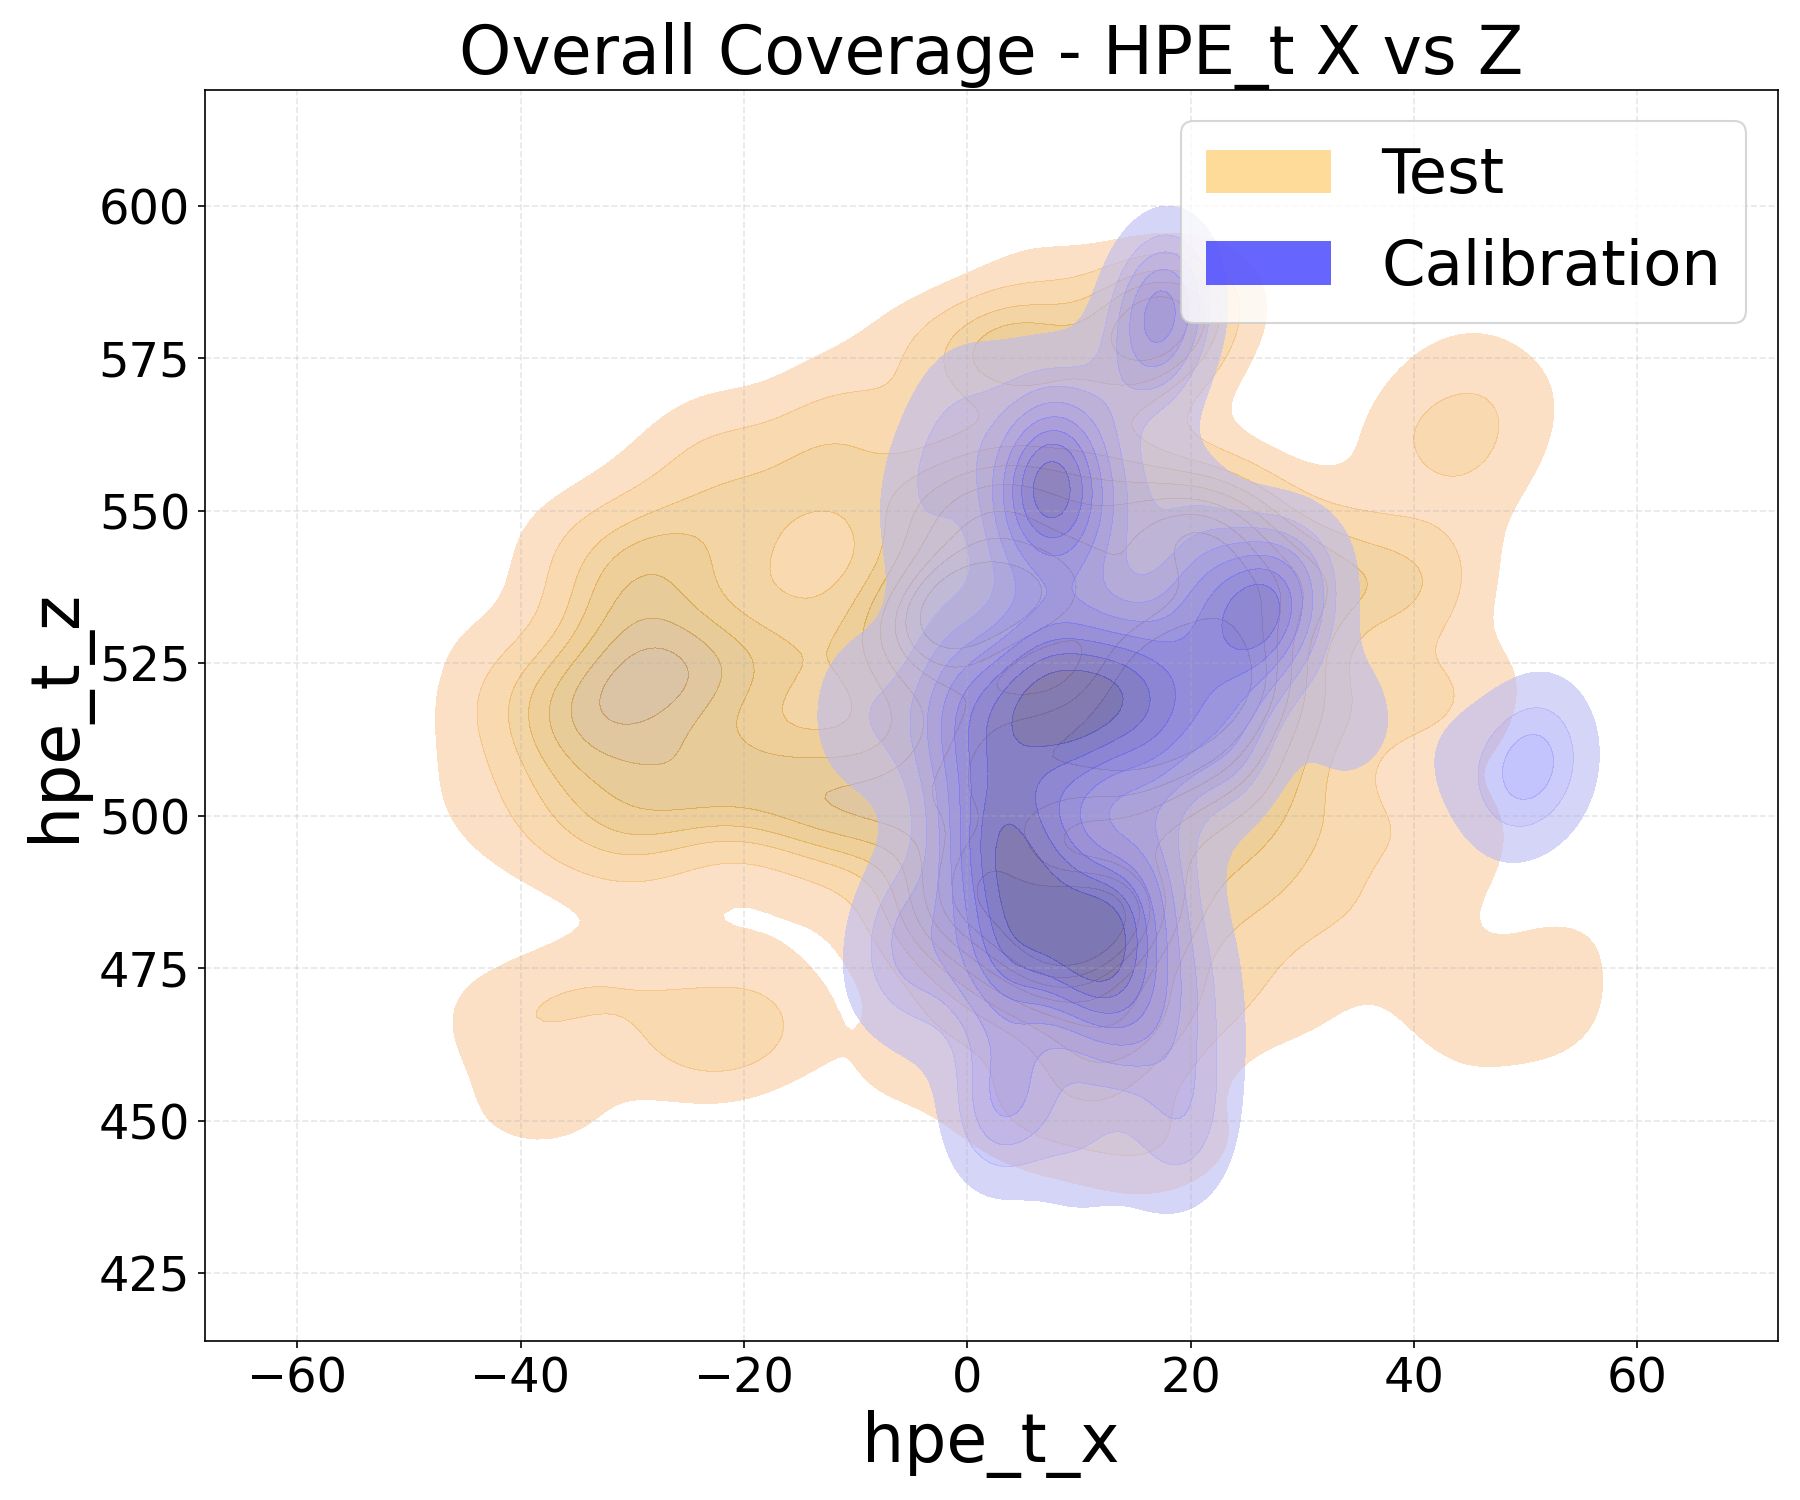
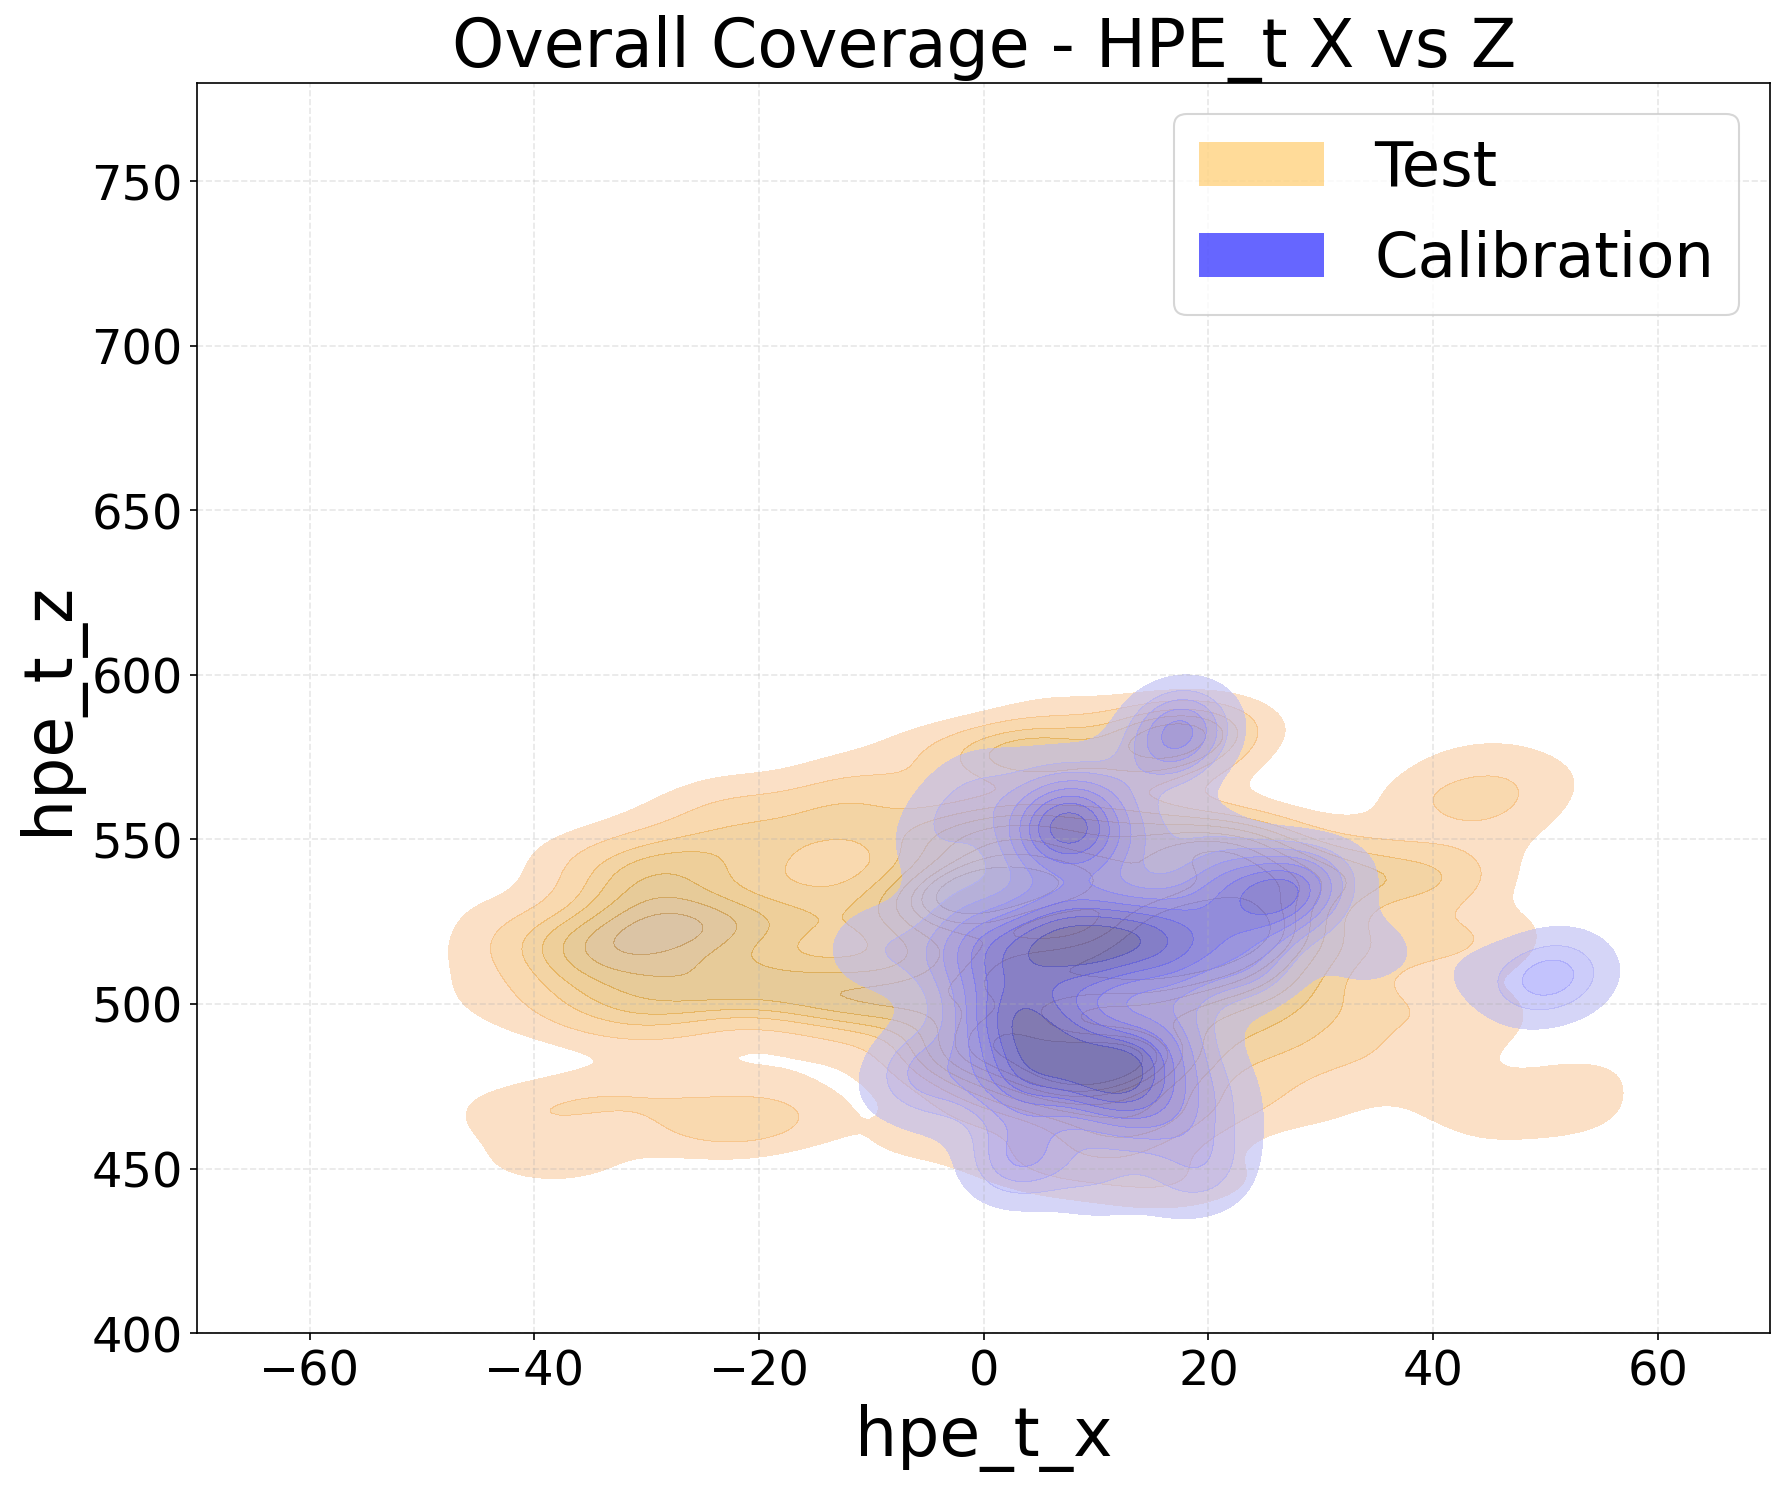
visualizatio bug fix

diff --git a/visualization/explore_dataset.py b/visualization/explore_dataset.py
@@ -285,9 +285,10 @@ def make_point_records(frame, max_points, screen):
         "session_id": "session",
         "task_id": "task",
         "task_type": "task_type",
-        "head_rotation_rad_x": "head_pitch",
+        # rotation_rad holds extrinsic Euler 'zyx' angles [roll, yaw, pitch] (docs/setup.json)
+        "head_rotation_rad_x": "head_roll",
         "head_rotation_rad_y": "head_yaw",
-        "head_rotation_rad_z": "head_roll",
+        "head_rotation_rad_z": "head_pitch",
         "head_translation_mm_x": "head_translation_x",
         "head_translation_mm_y": "head_translation_y",
         "head_translation_mm_z": "head_translation_z",
@@ -721,7 +722,7 @@ function themeLayout(extra = {}) {
 
 function axisStyle(title) {
   const border = getComputedStyle(document.documentElement).getPropertyValue("--border").trim();
-  return { title, gridcolor: border, zerolinecolor: border };
+  return { title: { text: title }, gridcolor: border, zerolinecolor: border };
 }
 
 const plotConfig = { responsive: true, displaylogo: false, modeBarButtonsToRemove: ["lasso2d", "select2d"] };
@@ -768,20 +769,21 @@ function renderSessionChart(groups) {
       type: "scatter",
       mode: "markers",
       name: label,
-      x: rows.map(row => row.session),
+      // tasks of the same session side by side, so that none hides another
+      x: rows.map(row => row.session + (index - (tasks.length - 1) / 2) * 0.2),
       y: rows.map(row => `User ${String(row.user).padStart(2, "0")}`),
-      customdata: rows.map(row => row.count),
+      customdata: rows.map(row => [row.count, row.session]),
       marker: {
         color: taskColors[index % taskColors.length],
-        size: rows.map(row => Math.max(7, Math.min(26, Math.sqrt(row.count) / 1.6))),
+        size: rows.map(row => Math.max(4, Math.min(9, Math.sqrt(row.count) / 2.5))),
         opacity: 0.76
       },
-      hovertemplate: "Session %{x}<br>%{y}<br>%{customdata:,} samples<extra>" + label + "</extra>"
+      hovertemplate: "Session %{customdata[1]}<br>%{y}<br>%{customdata[0]:,} samples<extra>" + label + "</extra>"
     };
   });
   Plotly.react("session-chart", traces, themeLayout({
     xaxis: { ...axisStyle("Session ID"), dtick: 1 },
-    yaxis: { title: "Participant", automargin: true },
+    yaxis: { title: { text: "Participant" }, automargin: true },
     legend: { orientation: "h", y: 1.18 },
     margin: { l: 82, r: 20, t: 64, b: 52 }
   }), plotConfig);
@@ -890,7 +892,7 @@ function renderHeadDistributions(points) {
   }));
   Plotly.react(target, traces, themeLayout({
     boxmode: "group",
-    xaxis: { title: "Task", automargin: true },
+    xaxis: { title: { text: "Task" }, automargin: true },
     yaxis: axisStyle("Head rotation (°)"),
     legend: { orientation: "h", y: 1.08 },
     margin: { l: 62, r: 18, t: 48, b: 78 }
@@ -1053,7 +1055,7 @@ function renderTranslationDistributions(points) {
   }));
   Plotly.react(target, traces, themeLayout({
     boxmode: "group",
-    xaxis: { title: "Task", automargin: true },
+    xaxis: { title: { text: "Task" }, automargin: true },
     yaxis: axisStyle("Head translation (cm)"),
     legend: { orientation: "h", y: 1.08 },
     margin: { l: 68, r: 18, t: 48, b: 78 }

diff --git a/visualization/explore_statistical_analysis.py b/visualization/explore_statistical_analysis.py
@@ -548,11 +548,11 @@ function renderMatrix(rows) {
   Plotly.react("matrix-chart", [{
     type: "heatmap", x: users, y: users, z, customdata: details,
     colorscale: [[0, colors.low], [0.5, colors.mid], [1, colors.high]],
-    colorbar: { title: statisticLabel(statistic), thickness: 14 },
+    colorbar: { title: { text: statisticLabel(statistic) }, thickness: 14 },
     hovertemplate: "User %{y} vs user %{x}<br>%{customdata}<extra></extra>"
   }], layout({
-    xaxis: { title: "Participant", side: "bottom" },
-    yaxis: { title: "Participant", autorange: "reversed", scaleanchor: "x" },
+    xaxis: { title: { text: "Participant" }, side: "bottom", constrain: "domain", zeroline: false, dtick: 1 },
+    yaxis: { title: { text: "Participant" }, autorange: "reversed", scaleanchor: "x", constrain: "domain", zeroline: false, dtick: 1 },
     margin: { l: 72, r: 30, t: 24, b: 62 }
   }), plotConfig);
   const stats = summary(rows, statistic);
@@ -594,7 +594,7 @@ function renderRanking(rows) {
     text: ranking.map(row => formatValue(row.value)), textposition: "auto",
     hovertemplate: "%{y}<br>Mean " + statisticLabel(statistic) + " %{x:.4f}<extra></extra>"
   }], layout({
-    xaxis: { title: `Mean ${statisticLabel(statistic)}`, gridcolor: theme().border },
+    xaxis: { title: { text: `Mean ${statisticLabel(statistic)}` }, gridcolor: theme().border },
     yaxis: { automargin: true }
   }), plotConfig);
 }
@@ -613,8 +613,8 @@ function renderProfiles() {
     customdata: medianRows.map(row => row.n_sessions),
     hovertemplate: "%{x}<br>Median instability %{y:.4f}<br>IQR %{error_y.array:.4f}<br>%{customdata} sessions<extra></extra>"
   }], layout({
-    xaxis: { title: "Participant" },
-    yaxis: { title: "Session distance", gridcolor: theme().border }
+    xaxis: { title: { text: "Participant" } },
+    yaxis: { title: { text: "Session distance" }, gridcolor: theme().border }
   }), plotConfig);
 }
 
@@ -637,8 +637,8 @@ function renderMismatch() {
     };
   });
   Plotly.react("mismatch-chart", traces, layout({
-    xaxis: { title: "Participant" },
-    yaxis: { title: `${label(metricFilter.value)} mismatch`, gridcolor: theme().border },
+    xaxis: { title: { text: "Participant" } },
+    yaxis: { title: { text: `${label(metricFilter.value)} mismatch` }, gridcolor: theme().border },
     showlegend: false,
     margin: { l: 72, r: 20, t: 20, b: 60 }
   }), plotConfig);

diff --git a/visualization/gaze_analyzer.py b/visualization/gaze_analyzer.py
@@ -34,7 +34,9 @@ def load_gaze_analysis_params(params_path: str) -> dict:
 # ------------------ GEOMETRY FUNCTIONS ----------------------
 # ============================================================
 
-def intersect_gaze(gaze, P0=np.array([0.0, 0.0, 40.0])):
+def intersect_gaze(gaze, P0=np.array([0.0, 0.0, 400.0])):
+    # Point where the ray from P0 along gaze meets the camera plane z = 0 (mm). The default P0 is a
+    # fixed eye 400 mm in front of the camera, which removes head position ("normalized" PoG).
     V0 = np.array([0, 0, 0], dtype=float)
     n = np.array([0, 0, 1], dtype=float)
     gaze = np.asarray(gaze, dtype=float).flatten()
@@ -204,6 +206,8 @@ def plot_vs_coverage_smooth(df: pd.DataFrame, x_var: str, y_var: str, x_lim=None
     ax.set_ylabel(y_var, fontsize=32)
     ax.tick_params(axis='both', which='major', labelsize=23)
     ax.grid(True, linestyle='--', alpha=0.3)
+    if x_lim: ax.set_xlim(x_lim[0], x_lim[1])
+    if y_lim: ax.set_ylim(y_lim[0], y_lim[1])
     fig.tight_layout()
 
 def plot_hpe_histograms(df: pd.DataFrame, xlims_by_suffix=None, id_user=None):
@@ -399,7 +403,7 @@ def analyze(args):
             plot_vs_coverage_smooth(df, "hpe_r_x", "hpe_r_y", x_lim=x_axis_hpe_r_lim, y_lim=y_axis_hpe_r_lim, split_plot_type="task_type", title="Overall Coverage - HPE_r X vs Y")
             plot_vs_coverage_smooth(df, "hpe_r_x", "hpe_r_z", x_lim=x_axis_hpe_r_lim, y_lim=z_axis_hpe_r_lim, split_plot_type="task_type", title="Overall Coverage - HPE_r X vs Z")
             plot_vs_coverage_smooth(df, "gaze_vector_x", "gaze_vector_y", x_lim=x_axis_ge_lim, y_lim=y_axis_ge_lim, split_plot_type="task_type", title="Overall Coverage - Gaze Vector X vs Y")
-            plot_vs_coverage_smooth(df, "pog_norm_x", "pog_norm_y", x_lim=x_axis_ge_lim, y_lim=y_axis_ge_lim, split_plot_type="task_type", title="Overall Coverage - POG Normalized X vs Y")
+            plot_vs_coverage_smooth(df, "pog_norm_x", "pog_norm_y", x_lim=x_axis_pog_norm_lim, y_lim=y_axis_pog_norm_lim, split_plot_type="task_type", title="Overall Coverage - POG Normalized X vs Y")
 
     if args.export_dir:
         os.makedirs(args.export_dir, exist_ok=True)

diff --git a/tests/test_explore_dataset.py b/tests/test_explore_dataset.py
@@ -28,13 +28,13 @@ class ExploreDatasetTest(unittest.TestCase):
                 "user_id": [7, 7, 7],
                 "session_id": [1, 1, 1],
                 "task_id": [0, 1, 1],
-                "task_type": ["9-point", "16-point", "16-point"],
-                "head_rot_x": [0.0, math.pi / 6, math.pi / 4],
-                "head_rot_y": [math.pi / 2, 0.0, -math.pi / 6],
-                "head_rot_z": [0.0, -math.pi / 4, math.pi / 6],
-                "head_trans_x": [-20.0, 10.0, 30.0],
-                "head_trans_y": [40.0, 50.0, 60.0],
-                "head_trans_z": [300.0, 320.0, 340.0],
+                "task_type": ["calibration", "test", "test"],
+                "head_rotation_rad_x": [0.0, math.pi / 6, math.pi / 4],
+                "head_rotation_rad_y": [math.pi / 2, 0.0, -math.pi / 6],
+                "head_rotation_rad_z": [0.0, -math.pi / 4, math.pi / 6],
+                "head_translation_mm_x": [-20.0, 10.0, 30.0],
+                "head_translation_mm_y": [40.0, 50.0, 60.0],
+                "head_translation_mm_z": [300.0, 320.0, 340.0],
                 "pog_px_x": [1368, 10, 10],
                 "pog_px_y": [912, 10, 10],
             }
@@ -60,8 +60,9 @@ class ExploreDatasetTest(unittest.TestCase):
         self.assertAlmostEqual(center["target_cm_x"], 13.0)
         self.assertAlmostEqual(center["target_cm_y"], 8.65)
         self.assertEqual(repeated["count"], 2)
-        self.assertAlmostEqual(points[1]["head_pitch"], 30.0)
-        self.assertAlmostEqual(points[1]["head_roll"], -45.0)
+        # rotation_rad = Euler zyx [roll, yaw, pitch]: x is roll, z is pitch
+        self.assertAlmostEqual(points[1]["head_roll"], 30.0)
+        self.assertAlmostEqual(points[1]["head_pitch"], -45.0)
         self.assertAlmostEqual(points[1]["head_translation_x"], 1.0)
         self.assertAlmostEqual(points[1]["head_translation_z"], 32.0)
 

diff --git a/visualization/read_gaze_data.py b/visualization/read_gaze_data.py
@@ -3,7 +3,7 @@ import json
 import math
 import numpy as np
 from scene_operations import Plane, rotateVector, createBothRotMat, transformMhProws, computeCameraMatrix, projectPoints
-from head_model import load_head_model
+from head_model import load_head_model, CANONICAL_EYE_MIDPOINT_MM
 from scene_3d_plots import trackingEnviroment3DPlotter
 from scene_2d_plots import trackingScreen2DPlotter
 from math import pi
@@ -50,6 +50,8 @@ class Read_gaze_data:
             self.posCam_mm = camera["position_mm"]
             self.data["rotCam"] = camera["rotation_rad"]
             self.img_res = setup_data["image_resolution_px"]
+            factors = setup_data.get("user_face_scale", {}).get("factors", {})
+            self.face_scale = float(factors.get(str(self.data.get("user_id", "")), 1.0))
             return
 
         # Legacy setup_config.json - set defaults if not present
@@ -114,6 +116,7 @@ class Read_gaze_data:
         self.pogPrediction_cam = []
         self.eye3DPredictionCenter_cam = []
         self.pogPredictionPx_screen = np.array([])
+        self.face_scale = 1.0
 
     def loadJSONData(self):
         """
@@ -278,7 +281,10 @@ class Read_gaze_data:
 
     def headSetup(self):
         # Head model
+        # The 68-point model has its own origin: move it so that its eyes sit where the labels put
+        # them (canonical-face eye midpoint, scaled like the released translation and gaze origin)
         head3D_head = load_head_model()*10
+        head3D_head = head3D_head - head3D_head[36:48].mean(axis=0) + self.face_scale * CANONICAL_EYE_MIDPOINT_MM
         self.head3D_cam = transformMhProws(self.Mhead_cam, head3D_head)
 
     def addHeadPrediction(self, predictionHead3D_cam, predictionMhead_cam, predictionVRhead_cam, predictionVThead_cam):

diff --git a/visualization/dataset_distribution_figure.py b/visualization/dataset_distribution_figure.py
@@ -108,6 +108,8 @@ def main(argv=None) -> int:
     ap.add_argument("--index", required=True, type=Path)
     ap.add_argument("--user", default="05")
     ap.add_argument("--out", required=True, type=Path)
+    ap.add_argument("--setup", type=Path,
+                    help="setup.json (default: next to --index as in the release, else docs/setup.json)")
     args = ap.parse_args(argv)
     args.out.mkdir(parents=True, exist_ok=True)
     d = load(args.index, args.user)
@@ -118,7 +120,10 @@ def main(argv=None) -> int:
     two_tasks(d, "tx", "ty", "head x (mm)", "head y (mm)", n("hpe_t_x_vs_hpe_t_y"), invert_y=True)
     two_tasks(d, "tx", "tz", "head x (mm)", "head z (mm)", n("hpe_t_x_vs_hpe_t_z"))
     # (e): gaze rays from the median origin on the screen plane, screen outline from setup.json
-    setup = json.loads((args.index.parent / "setup.json").read_text())
+    setup_path = args.setup or args.index.parent / "setup.json"
+    if not setup_path.is_file():
+        setup_path = Path(__file__).resolve().parents[1] / "docs" / "setup.json"
+    setup = json.loads(setup_path.read_text())
     scr, cam = setup["screen"], setup["camera"]["position_mm"]
     fig, ax = plt.subplots(figsize=(6, 5))
     kde(ax, d[d.task_type == "test"], "pog_x", "pog_y", TEST, "test")

diff --git a/visualization/head_model.py b/visualization/head_model.py
@@ -1,5 +1,11 @@
 import numpy as np
 
+# Midpoint of the eye corners (33, 133, 263, 362) of MediaPipe's canonical face in its own frame, mm
+# (OpenCV axes). The released head translation is the origin of that face and the gaze origin is this
+# point placed with the head pose and the participant's face scale.
+CANONICAL_EYE_MIDPOINT_MM = np.array([0.0, -26.25, -34.66])
+
+
 def load_head_model():
     head = np.array([[6.56, -3.2, 6.921],
                      [6.56, -1.6, 6.507],
